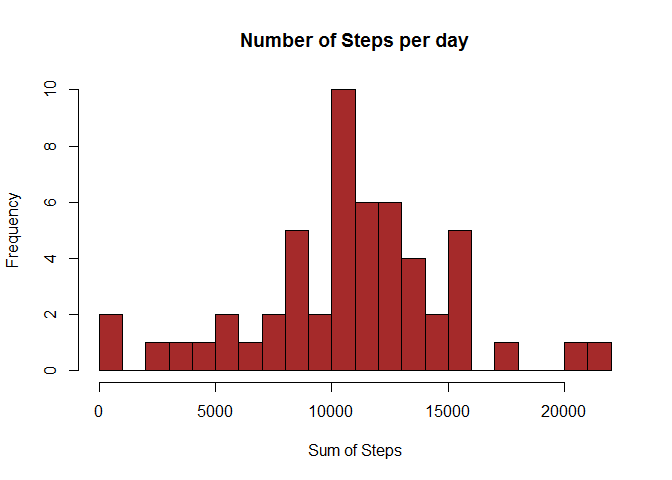
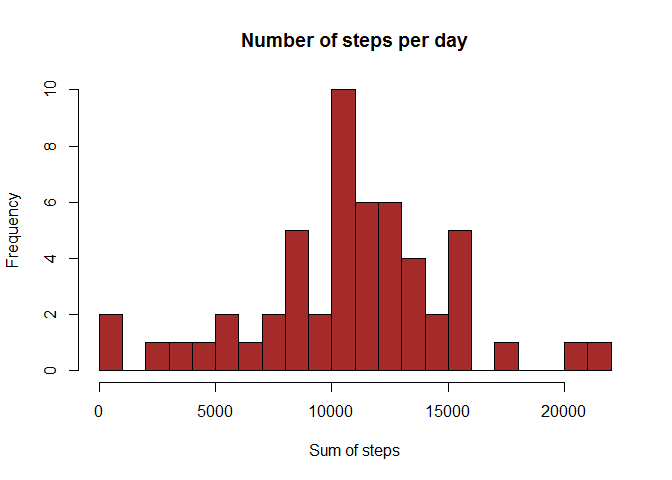
Reproducible Research Project Work 1 Final Commit

Changed region(s): [[0.3438, 0.0625, 0.7188, 0.125], [0.4688, 0.9062, 0.5938, 0.9688]]

diff --git a/PA1_template.html b/PA1_template.html
@@ -69,13 +69,14 @@ img {
 <pre class="r"><code>file &lt;- unzip(&quot;activity.zip&quot;)
 origDF &lt;- read.csv(file, header = TRUE, sep = &quot;,&quot;, na.strings = &quot;NA&quot;, nrows = 17568)
 
-
 imputedDF &lt;- origDF
 noNADF &lt;- na.omit(origDF)</code></pre>
 </div>
 <div id="what-is-mean-total-number-of-steps-taken-per-day" class="section level2">
 <h2>What is mean total number of steps taken per day?</h2>
-<pre class="r"><code>library(sqldf)</code></pre>
+<pre class="r"><code># The sqldf library for using SQL to get totals, means, etc. 
+# Makes coding much easier
+library(sqldf)</code></pre>
 <pre><code>## Loading required package: gsubfn
 ## Loading required package: proto
 ## Loading required package: RSQLite
@@ -84,11 +85,11 @@ noNADF &lt;- na.omit(origDF)</code></pre>
 <pre><code>## Loading required package: tcltk</code></pre>
 <pre class="r"><code>colnames(totSteps) &lt;- &quot;steps&quot;
 
-hist(totSteps$steps , breaks = 25, ylim = c(0,10), col = 'brown', xlab = 'Sum of Steps', bg = 'white', main = 'Number of Steps per day')</code></pre>
[1 lines of base64/hex data omitted]
+hist(totSteps$steps , breaks = 25, ylim = c(0,10), col = 'brown', xlab = 'Sum of steps', bg = 'white', main = 'Number of steps per day')</code></pre>
[1 lines of base64/hex data omitted]
 </div>
-<div id="what-is-the-mean-and-medium" class="section level2">
-<h2>What is the mean and medium</h2>
+<div id="what-is-the-mean-and-median" class="section level2">
+<h2>What is the mean and median</h2>
 <pre class="r"><code>mmPDate &lt;- sqldf(&quot;select date as Date, AVG(steps) as Mean, ((max(steps) + min(steps)) / 2)  as Median from noNADF group by date &quot;)</code></pre>
 <div id="report-of-the-mean-and-median" class="section level3">
 <h3>Report of the Mean and Median</h3>
@@ -158,16 +159,16 @@ aveStepsInt &lt;- sqldf(&quot;select interval, AVG(steps) as Mean from noNADF gr
 xyplot(aveStepsInt$Mean ~ aveStepsInt$interval,
         data = aveStepsInt,
         type = &quot;l&quot;, lty = c(1, 2, 2, 1),
-        xlab = &quot;Interval&quot;, ylab = &quot;Average Steps&quot;
+        xlab = &quot;Interval&quot;, ylab = &quot;Average steps&quot;
        )</code></pre>
[2 lines of base64/hex data omitted]
 </div>
 <div id="what-is-the-interval-at-maximum-number-of-steps" class="section level2">
 <h2>What is the interval at maximum number of steps</h2>
-<pre class="r"><code>maxInterval &lt;- sqldf(&quot; select interval from noNADF where steps = (select MAX(steps) from noNADF)&quot;)
+<pre class="r"><code>maxInterval &lt;- sqldf(&quot; select interval from aveStepsInt where Mean = (select MAX(Mean) from aveStepsInt)&quot;)
 printStr &lt;- sprintf(&quot;The 5 min interval with maximum number of steps = %d&quot;,maxInterval$interval)
 print(printStr)</code></pre>
-<pre><code>## [1] &quot;The 5 min interval with maximum number of steps = 615&quot;</code></pre>
+<pre><code>## [1] &quot;The 5 min interval with maximum number of steps = 835&quot;</code></pre>
 </div>
 <div id="imputing-missing-values" class="section level2">
 <h2>Imputing missing values</h2>
@@ -175,6 +176,14 @@ print(printStr)</code></pre>
 printStr &lt;- sprintf(&quot;Total number of Missing Values = %d&quot;,totalNA)
 print(printStr)</code></pre>
 <pre><code>## [1] &quot;Total number of Missing Values = 2304&quot;</code></pre>
+<div id="the-missing-values-for-each-interval-will-be-imputed-with-the-mean-steps-value-for-that-interval-from-the-avestepsint-data-frame-above-created-after-removing-the-missing-values." class="section level3">
+<h3>The missing values for each interval will be imputed with the ‘mean steps value’ for that interval from the aveStepsInt data frame above created after removing the missing values.</h3>
+</div>
+<div id="please-note-that-since-the-mean-is-being-added-for-each-na-for-all-intervals-it-is-not-going-to-affect-the-overall-mean-and-median." class="section level3">
+<h3>Please note that since the mean is being added for each NA for all intervals, it is not going to affect the overall MEAN and MEDIAN.</h3>
+</div>
+<div id="the-below-r-code-accomplishes-this." class="section level3">
+<h3>The below R code accomplishes this.</h3>
 <pre class="r"><code># Imputing the NAs with the mean for that interval from the No NAs data frame
 for(i in 1:17568) {
         if (is.na(origDF$steps[i])) { 
@@ -184,6 +193,7 @@ for(i in 1:17568) {
 }
 colnames(imputedDF) &lt;- c(&quot;steps&quot;, &quot;date&quot;, &quot;interval&quot;)</code></pre>
 </div>
+</div>
 <div id="histogram-for-imputed-values" class="section level2">
 <h2>Histogram for imputed values</h2>
 <pre class="r"><code>totSteps2 &lt;- sqldf(&quot;select sum(steps) from imputedDF group by date &quot;)
@@ -192,8 +202,8 @@ colnames(totSteps2) &lt;- &quot;steps&quot;
 hist(totSteps2$steps , breaks = 25, ylim = c(0,10), col = 'brown', xlab = 'Sum of Steps', bg = 'white', main = 'Number of Steps per day')</code></pre>
[1 lines of base64/hex data omitted]
 </div>
-<div id="mean-and-medium-for-imputed-values" class="section level2">
-<h2>Mean and medium for imputed values</h2>
+<div id="mean-and-median-for-imputed-values" class="section level2">
+<h2>Mean and median for imputed values</h2>
 <pre class="r"><code>mmPDate2 &lt;- sqldf(&quot;select date as Date, AVG(steps) as Mean, ((max(steps) + min(steps)) / 2)  as Median from imputedDF group by date &quot;)
 
 mmPDate2$Median &lt;- as.integer(mmPDate2$Median)</code></pre>
@@ -281,6 +291,8 @@ mmPDate2$Median &lt;- as.integer(mmPDate2$Median)</code></pre>
 </div>
 <div id="are-there-differences-in-activity-patterns-between-weekdays-and-weekends" class="section level2">
 <h2>Are there differences in activity patterns between weekdays and weekends?</h2>
+<div id="the-below-r-code-chunk-creates-a-factor-variable-for-separating-days-into-weekdays-and-weekends." class="section level3">
+<h3>The below R code chunk creates a factor variable for separating days into weekdays and weekends.</h3>
 <pre class="r"><code>#create a vector of weekdays
 imputedDF$day &lt;- weekdays(as.Date(imputedDF$date))
 weekdays1 &lt;- c('Monday', 'Tuesday', 'Wednesday', 'Thursday', 'Friday')
@@ -288,6 +300,7 @@ weekdays1 &lt;- c('Monday', 'Tuesday', 'Wednesday', 'Thursday', 'Friday')
 #convert to `factor` and specify the `levels/labels`
 imputedDF$wDay &lt;-  factor((imputedDF$day %in% weekdays1)+1L,
       levels=1:2, labels=c('weekday', 'weekend'))</code></pre>
+</div>
 </div>
 <div id="making-a-time-series-panel-plot-for-weekdays-versus-weekends" class="section level2">
 <h2>Making a time series panel plot for weekdays versus weekends</h2>
@@ -305,16 +318,19 @@ aveStepsInt3 &lt;- sqldf(&quot;select interval,
                       group by interval &quot;)
 
 
-df4 &lt;- rbind(aveStepsInt3, aveStepsInt2)
+weekDayEndDF &lt;- rbind(aveStepsInt3, aveStepsInt2)
 
 
 xyplot(Mean ~ interval | wDay, 
-        data = df4,
+        data = weekDayEndDF,
         layout=c(1,2),
         type = &quot;l&quot;, lty = c(1, 2, 2, 1),
         xlab = &quot;Interval&quot;, ylab = &quot;Number of Steps&quot;
        )</code></pre>
[1 lines of base64/hex data omitted]
+<div id="the-panel-plot-above-shows-differences-in-average-steps-per-time-interval-for-weekdays-versus-weekends." class="section level3">
+<h3>The panel plot above shows differences in average steps per time interval for weekdays versus weekends.</h3>
+</div>
 </div>
 
 

diff --git a/PA1_template.md b/PA1_template.md
@@ -8,7 +8,6 @@
 file <- unzip("activity.zip")
 origDF <- read.csv(file, header = TRUE, sep = ",", na.strings = "NA", nrows = 17568)
 
-
 imputedDF <- origDF
 noNADF <- na.omit(origDF)
 ```
@@ -17,6 +16,8 @@ noNADF <- na.omit(origDF)
 
 
 ```r
+# The sqldf library for using SQL to get totals, means, etc. 
+# Makes coding much easier
 library(sqldf)
 ```
 
@@ -38,12 +39,12 @@ totSteps <- sqldf("select sum(steps) from noNADF group by date ")
 ```r
 colnames(totSteps) <- "steps"
 
-hist(totSteps$steps , breaks = 25, ylim = c(0,10), col = 'brown', xlab = 'Sum of Steps', bg = 'white', main = 'Number of Steps per day')
+hist(totSteps$steps , breaks = 25, ylim = c(0,10), col = 'brown', xlab = 'Sum of steps', bg = 'white', main = 'Number of steps per day')
 ```
 
 ![](PA1_template_files/figure-html/1.Histogram-1.png) 
 
-## What is the mean and medium
+## What is the mean and median
 
 
 ```r
@@ -123,7 +124,7 @@ aveStepsInt <- sqldf("select interval, AVG(steps) as Mean from noNADF group by i
 xyplot(aveStepsInt$Mean ~ aveStepsInt$interval,
         data = aveStepsInt,
         type = "l", lty = c(1, 2, 2, 1),
-        xlab = "Interval", ylab = "Average Steps"
+        xlab = "Interval", ylab = "Average steps"
        )
 ```
 
@@ -133,13 +134,13 @@ xyplot(aveStepsInt$Mean ~ aveStepsInt$interval,
 
 
 ```r
-maxInterval <- sqldf(" select interval from noNADF where steps = (select MAX(steps) from noNADF)")
+maxInterval <- sqldf(" select interval from aveStepsInt where Mean = (select MAX(Mean) from aveStepsInt)")
 printStr <- sprintf("The 5 min interval with maximum number of steps = %d",maxInterval$interval)
 print(printStr)
 ```
 
 ```
-## [1] "The 5 min interval with maximum number of steps = 615"
+## [1] "The 5 min interval with maximum number of steps = 835"
 ```
 
 ## Imputing missing values
@@ -154,6 +155,14 @@ print(printStr)
 ```
 ## [1] "Total number of Missing Values = 2304"
 ```
+
+### The missing values for each interval will be imputed with the 'mean steps value' for that interval from the aveStepsInt data frame above created after removing the missing values.
+
+### Please note that since the mean is being added for each NA for all intervals, it is not going to affect the overall MEAN and MEDIAN.
+
+### The below R code accomplishes this.
+
+
 
 ```r
 # Imputing the NAs with the mean for that interval from the No NAs data frame
@@ -178,7 +187,7 @@ hist(totSteps2$steps , breaks = 25, ylim = c(0,10), col = 'brown', xlab = 'Sum o
 
 ![](PA1_template_files/figure-html/2.Histogram-1.png) 
 
-## Mean and medium for imputed values
+## Mean and median for imputed values
 
 
 ```r
@@ -272,6 +281,9 @@ print(mmPDate2)
 
 ## Are there differences in activity patterns between weekdays and weekends?
 
+### The below R code chunk creates a factor variable for separating days into weekdays and weekends.
+
+
 
 ```r
 #create a vector of weekdays
@@ -301,11 +313,11 @@ aveStepsInt3 <- sqldf("select interval,
                       group by interval ")
 
 
-df4 <- rbind(aveStepsInt3, aveStepsInt2)
+weekDayEndDF <- rbind(aveStepsInt3, aveStepsInt2)
 
 
 xyplot(Mean ~ interval | wDay, 
-        data = df4,
+        data = weekDayEndDF,
         layout=c(1,2),
         type = "l", lty = c(1, 2, 2, 1),
         xlab = "Interval", ylab = "Number of Steps"
@@ -313,5 +325,7 @@ xyplot(Mean ~ interval | wDay,
 ```
 
 ![](PA1_template_files/figure-html/time series panel plot-1.png) 
+
+### The panel plot above shows differences in average steps per time interval for weekdays versus weekends.
 
 
